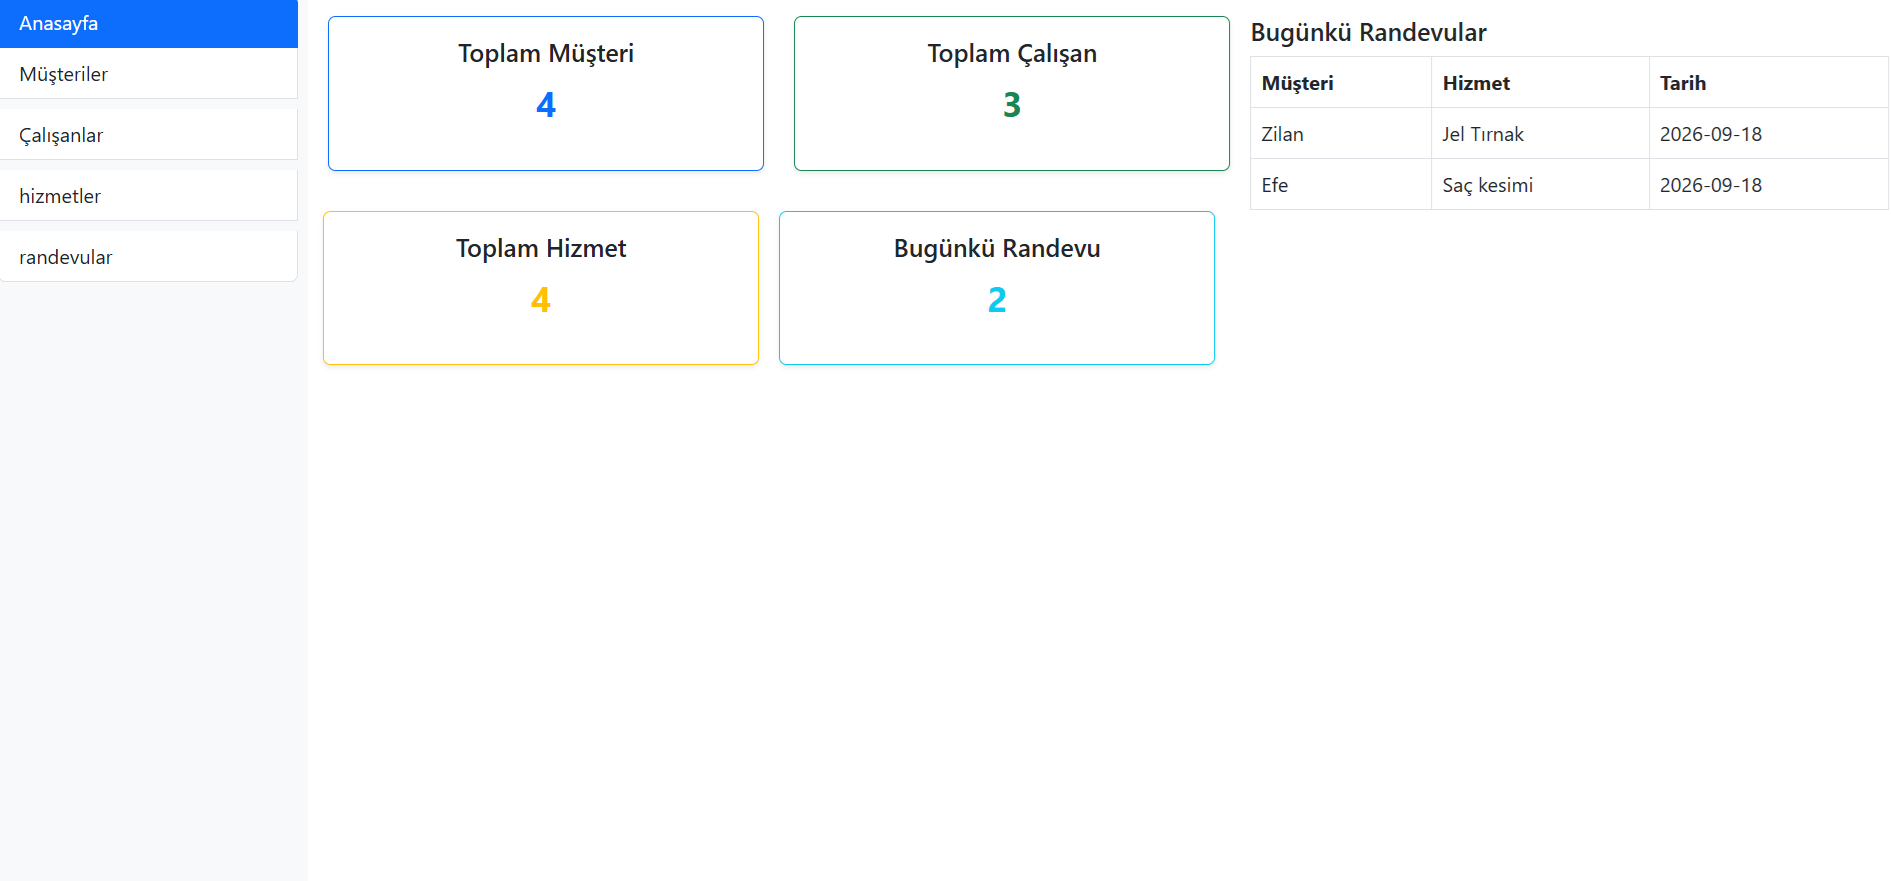
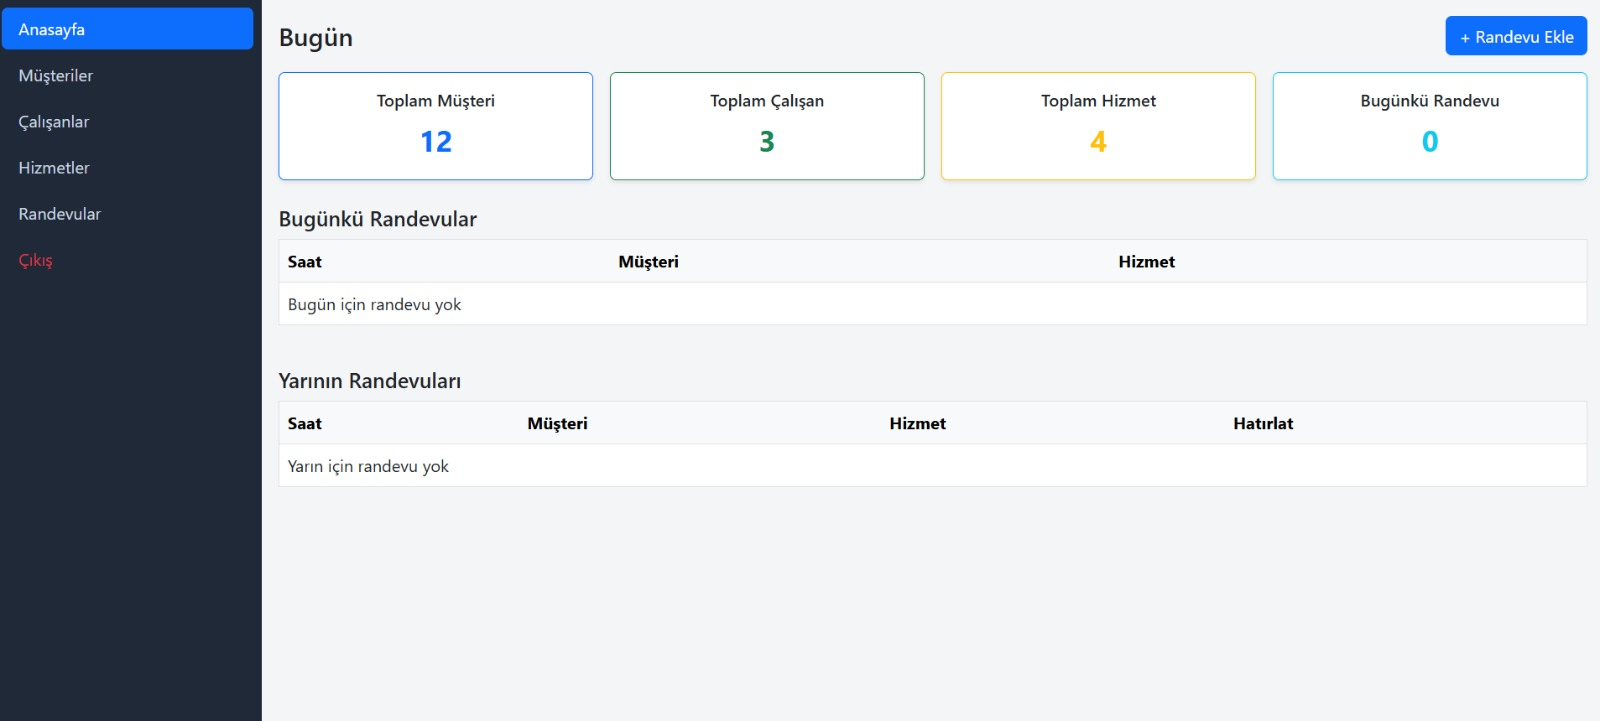
README güncellendi, veritabanı yapısı ve ekran görüntüleri eklendi

diff --git a/README.md b/README.md
@@ -6,30 +6,32 @@ PHP ve MySQL ile geliştirdiğim, bir güzellik salonunun müşteri, çalışan,
 ![Ana Sayfa](screenshots/anasayfa.png)
 ![Müşteriler](screenshots/musteriler.png)
 ![Randevular](screenshots/randevular.png)
+![Mobil Görünüm](screenshots/mobil.png)
 
 ## Özellikler
 - Müşteri, çalışan, hizmet ve randevu yönetimi (ekleme, düzenleme, silme, listeleme)
-- Müşterilerde ad/soyada göre arama
-- Randevu oluştururken müşteri ve hizmet için dropdown seçimi, tarih seçici
-- Randevu tablolarının JOIN sorgularıyla ilişkilendirilmesi (müşteri, hizmet, randevu bilgisi tek tabloda)
-- Ana sayfada toplam müşteri/çalışan/hizmet sayısı ve bugünkü randevuların özet dashboard'u
-- Hazırlanmış SQL sorguları (prepared statements) ile SQL injection koruması
-- Form doğrulamaları (boş alan ve telefon numarası kontrolü)
-- Bootstrap 5 ile responsive arayüz, aktif sayfayı vurgulayan navigasyon menüsü
+- Randevularda personel ve saat seçimi; aynı personele aynı saatte çift randevu engelleniyor
+- Randevu durumu takibi (bekliyor, geldi, gelmedi, iptal); iptal edilen randevu saati meşgul etmez
+- Yarının randevuları için tek tıkla WhatsApp hatırlatma mesajı (wa.me bağlantısı)
+- Müşteri listesinde geliş sayısı ve ad/soyada göre arama
+- Ana sayfada özet kartlar, bugünün ve yarının randevu listesi
+- Oturum (session) tabanlı giriş sistemi; şifreler password_hash ile saklanır, tüm sayfalar giriş kontrolüyle korunur
+- Prepared statements ile SQL injection, htmlspecialchars ile XSS koruması; telefon ve mail doğrulaması
+- Bootstrap 5 ile mobil uyumlu arayüz
 
 ## Teknolojiler
-- PHP
-- MySQL
-- Bootstrap 5
-- JavaScript
+PHP, MySQL, Bootstrap 5, JavaScript
 
 ## Kurulum
-1. XAMPP'ı kur ve başlat
-2. `mini_adres` adında bir veritabanı oluştur
-3. Proje dosyalarını `htdocs` klasörüne koy
-4. Tarayıcıdan `localhost/mini_proje` adresine git
+1. XAMPP'ı kur ve Apache ile MySQL'i başlat
+2. phpMyAdmin'de `mini_adres` adında bir veritabanı oluştur
+3. `veritabani.sql` dosyasını bu veritabanına içe aktar (isteğe bağlı: `demo_veri.sql` ile örnek veri)
+4. Proje dosyalarını `htdocs/mini_proje` klasörüne koy
+5. Bir yönetici hesabı oluştur: terminalde `php -r "echo password_hash('SIFREN', PASSWORD_DEFAULT);"` çıktısını al ve `kullanicilar` tablosuna ekle:
+   `INSERT INTO kullanicilar (kullanici_adi, sifre) VALUES ('admin', 'ÇIKAN_HASH');`
+6. Tarayıcıdan `localhost/mini_proje` adresine git ve giriş yap
 
 ## Geliştirme Notları
-Bu proje boyunca AI'dan yalnızca takıldığım noktalarda mantık/ipucu almak için yararlandım; her satırın ne işe yaradığını öğrenerek ilerledim.
-Uygulamayı aktif olarak geliştirmeye, yeni modüller ve mimari iyileştirmeler ekleyerek daha kapsamlı ve profesyonel bir yapıya kavuşturmaya devam ediyorum.
+Bu projeyi geliştirirken bir AI asistanından destek aldım (kod önerileri, hata ayıklama, arayüz ve hosting kurulumu). Önerilen kodları inceleyip çalıştırarak, test ederek ve ne işe yaradığını anlayarak projeye entegre ettim.
 
+Sonraki adımlar: kullanıcı rolleri, hizmet süresine göre çakışma kontrolü, müşterinin kendi randevusunu alabilmesi.
